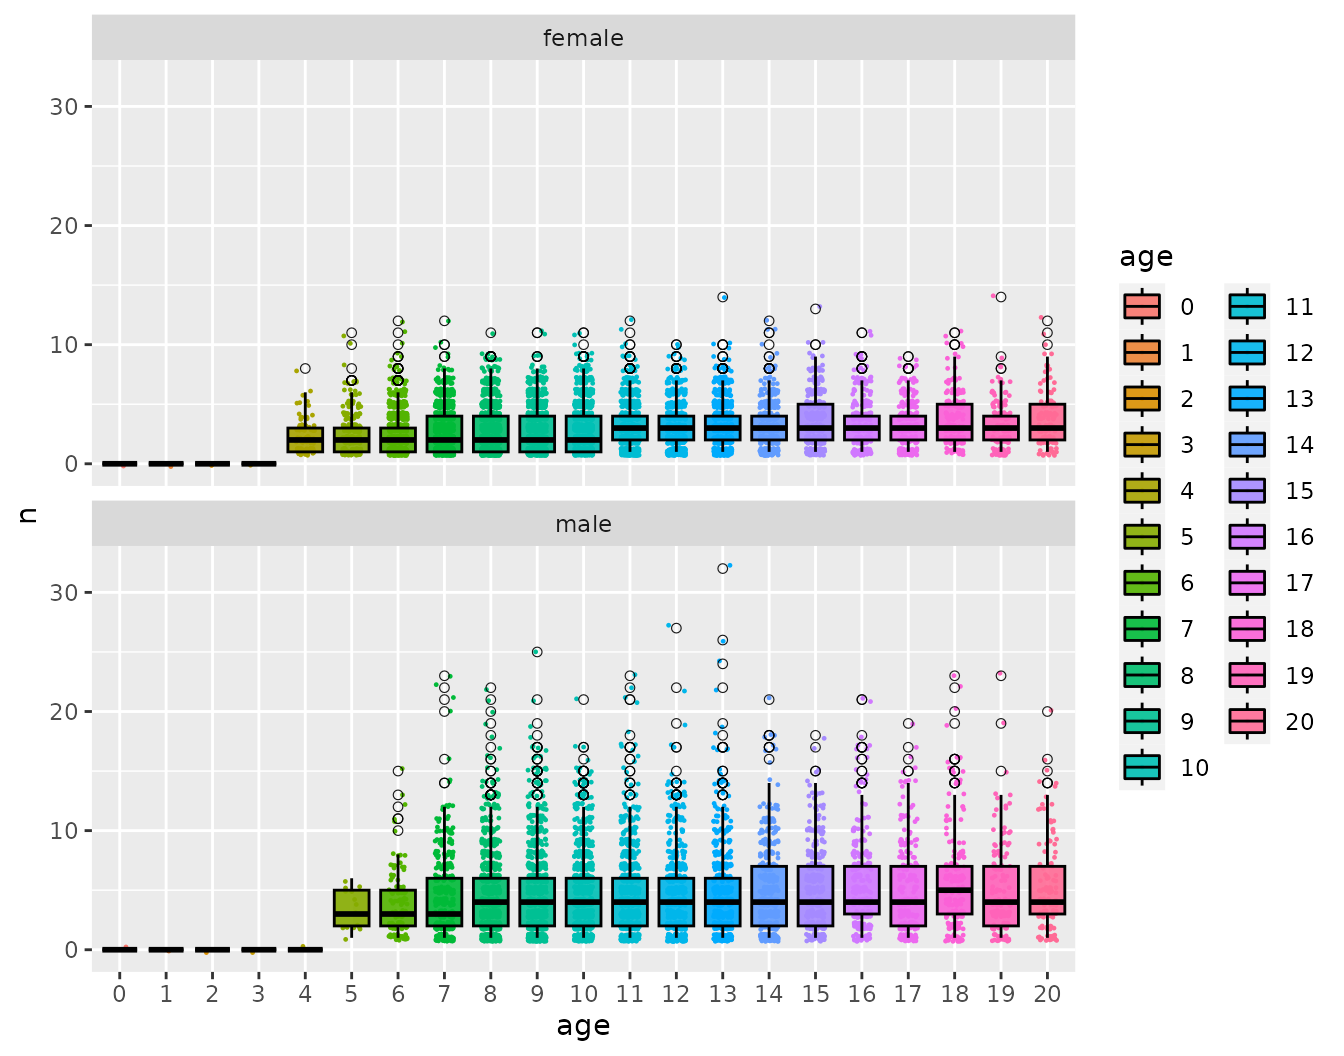
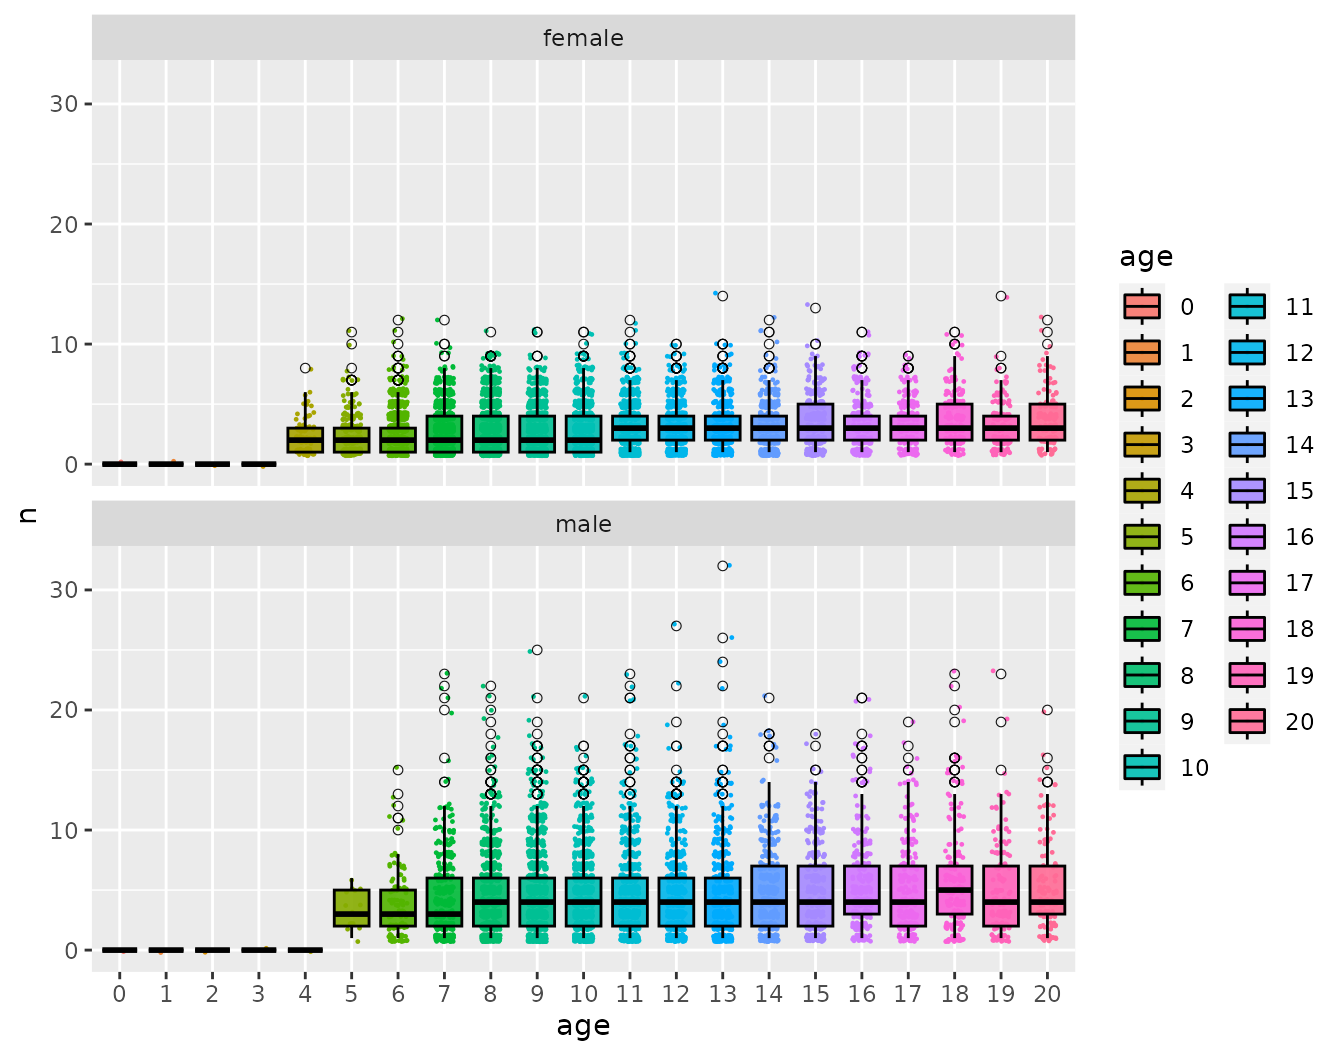
Deploying to gh-pages from @ eriqande/CKMRpop@c97fd8de1903bfc67034d4aba7c3ec18305de2e6 🚀

diff --git a/reference/downsample_pairs.html b/reference/downsample_pairs.html
@@ -108,13 +108,6 @@ include individuals that were not retained in the sample.</p></li>
 <span class="r-in"><span><span class="va">S</span> <span class="op">&lt;-</span> <span class="va">three_pops_with_mig_slurped_results</span><span class="op">$</span><span class="va">samples</span></span></span>
 <span class="r-in"><span><span class="va">P</span> <span class="op">&lt;-</span> <span class="fu"><a href="compile_related_pairs.html">compile_related_pairs</a></span><span class="op">(</span><span class="va">three_pops_with_mig_slurped_results</span><span class="op">$</span><span class="va">samples</span><span class="op">)</span></span></span>
 <span class="r-in"><span><span class="va">result</span> <span class="op">&lt;-</span> <span class="fu">downsample_pairs</span><span class="op">(</span><span class="va">S</span>, <span class="va">P</span>, n <span class="op">=</span> <span class="fl">500</span><span class="op">)</span></span></span>
-<span class="r-wrn co"><span class="r-pr">#&gt;</span> <span class="warning">Warning: </span>Returning more (or less) than 1 row per `summarise()` group was deprecated in</span>
-<span class="r-wrn co"><span class="r-pr">#&gt;</span> dplyr 1.1.0.</span>
-<span class="r-wrn co"><span class="r-pr">#&gt;</span> <span style="color: #00BBBB;">ℹ</span> Please use `reframe()` instead.</span>
-<span class="r-wrn co"><span class="r-pr">#&gt;</span> <span style="color: #00BBBB;">ℹ</span> When switching from `summarise()` to `reframe()`, remember that `reframe()`</span>
-<span class="r-wrn co"><span class="r-pr">#&gt;</span>   always returns an ungrouped data frame and adjust accordingly.</span>
-<span class="r-wrn co"><span class="r-pr">#&gt;</span> <span style="color: #00BBBB;">ℹ</span> The deprecated feature was likely used in the <span style="color: #0000BB;">CKMRpop</span> package.</span>
-<span class="r-wrn co"><span class="r-pr">#&gt;</span>   Please report the issue to the authors.</span>
 <span class="r-in"><span></span></span>
 <span class="r-in"><span><span class="co"># print the result</span></span></span>
 <span class="r-in"><span><span class="va">result</span></span></span>
@@ -122,8 +115,8 @@ include individuals that were not retained in the sample.</p></li>
 <span class="r-out co"><span class="r-pr">#&gt;</span> <span style="color: #949494;"># A tibble: 500 × 13</span></span>
 <span class="r-out co"><span class="r-pr">#&gt;</span>    ID      samp_…¹ sex   born_…² born_…³ pop_pre pop_p…⁴ pop_dur samp_…⁵ samp_…⁶</span>
 <span class="r-out co"><span class="r-pr">#&gt;</span>    <span style="color: #949494; font-style: italic;">&lt;chr&gt;</span>   <span style="color: #949494; font-style: italic;">&lt;list&gt;</span>  <span style="color: #949494; font-style: italic;">&lt;chr&gt;</span>   <span style="color: #949494; font-style: italic;">&lt;int&gt;</span>   <span style="color: #949494; font-style: italic;">&lt;int&gt;</span> <span style="color: #949494; font-style: italic;">&lt;chr&gt;</span>   <span style="color: #949494; font-style: italic;">&lt;chr&gt;</span>   <span style="color: #949494; font-style: italic;">&lt;chr&gt;</span>   <span style="color: #949494; font-style: italic;">&lt;list&gt;</span>  <span style="color: #949494; font-style: italic;">&lt;list&gt;</span> </span>
-<span class="r-out co"><span class="r-pr">#&gt;</span> <span style="color: #BCBCBC;"> 1</span> F10_0_… &lt;int&gt;   F          10       0 0       <span style="color: #BB0000;">NA</span>      <span style="color: #BB0000;">NA</span>      &lt;int&gt;   &lt;int&gt;  </span>
-<span class="r-out co"><span class="r-pr">#&gt;</span> <span style="color: #BCBCBC;"> 2</span> F10_0_… &lt;int&gt;   F          10       0 1       <span style="color: #BB0000;">NA</span>      <span style="color: #BB0000;">NA</span>      &lt;int&gt;   &lt;int&gt;  </span>
+<span class="r-out co"><span class="r-pr">#&gt;</span> <span style="color: #BCBCBC;"> 1</span> F10_0_… &lt;int&gt;   F          10       0 <span style="color: #BB0000;">NA</span>      0       <span style="color: #BB0000;">NA</span>      &lt;int&gt;   &lt;int&gt;  </span>
+<span class="r-out co"><span class="r-pr">#&gt;</span> <span style="color: #BCBCBC;"> 2</span> F10_0_… &lt;int&gt;   F          10       0 0       <span style="color: #BB0000;">NA</span>      <span style="color: #BB0000;">NA</span>      &lt;int&gt;   &lt;int&gt;  </span>
 <span class="r-out co"><span class="r-pr">#&gt;</span> <span style="color: #BCBCBC;"> 3</span> F10_0_… &lt;int&gt;   F          10       0 0       <span style="color: #BB0000;">NA</span>      <span style="color: #BB0000;">NA</span>      &lt;int&gt;   &lt;int&gt;  </span>
 <span class="r-out co"><span class="r-pr">#&gt;</span> <span style="color: #BCBCBC;"> 4</span> F10_0_… &lt;int&gt;   F          10       0 0       <span style="color: #BB0000;">NA</span>      <span style="color: #BB0000;">NA</span>      &lt;int&gt;   &lt;int&gt;  </span>
 <span class="r-out co"><span class="r-pr">#&gt;</span> <span style="color: #BCBCBC;"> 5</span> F10_0_… &lt;int&gt;   F          10       0 0       <span style="color: #BB0000;">NA</span>      <span style="color: #BB0000;">NA</span>      &lt;int&gt;   &lt;int&gt;  </span>
@@ -138,20 +131,20 @@ include individuals that were not retained in the sample.</p></li>
 <span class="r-out co"><span class="r-pr">#&gt;</span> <span style="color: #949494;">#   ⁶samp_years_list_dur</span></span>
 <span class="r-out co"><span class="r-pr">#&gt;</span> </span>
 <span class="r-out co"><span class="r-pr">#&gt;</span> $ds_pairs</span>
-<span class="r-out co"><span class="r-pr">#&gt;</span> <span style="color: #949494;"># A tibble: 170 × 33</span></span>
+<span class="r-out co"><span class="r-pr">#&gt;</span> <span style="color: #949494;"># A tibble: 167 × 33</span></span>
 <span class="r-out co"><span class="r-pr">#&gt;</span>    id_1   id_2  conn_…¹ dom_r…² max_hit dr_hits upper…³ times…⁴ prima…⁵ psa_tibs</span>
 <span class="r-out co"><span class="r-pr">#&gt;</span>    <span style="color: #949494; font-style: italic;">&lt;chr&gt;</span>  <span style="color: #949494; font-style: italic;">&lt;chr&gt;</span>   <span style="color: #949494; font-style: italic;">&lt;dbl&gt;</span> <span style="color: #949494; font-style: italic;">&lt;chr&gt;</span>     <span style="color: #949494; font-style: italic;">&lt;int&gt;</span> <span style="color: #949494; font-style: italic;">&lt;list&gt;</span>    <span style="color: #949494; font-style: italic;">&lt;int&gt;</span>   <span style="color: #949494; font-style: italic;">&lt;int&gt;</span> <span style="color: #949494; font-style: italic;">&lt;list&gt;</span>  <span style="color: #949494; font-style: italic;">&lt;list&gt;</span>  </span>
-<span class="r-out co"><span class="r-pr">#&gt;</span> <span style="color: #BCBCBC;"> 1</span> F10_0… M10_…       1 Si            1 &lt;int&gt;        <span style="color: #BB0000;">NA</span>       2 &lt;list&gt;  &lt;tibble&gt;</span>
-<span class="r-out co"><span class="r-pr">#&gt;</span> <span style="color: #BCBCBC;"> 2</span> F10_0… F11_…       2 Si            1 &lt;int&gt;        <span style="color: #BB0000;">NA</span>       3 &lt;list&gt;  &lt;tibble&gt;</span>
-<span class="r-out co"><span class="r-pr">#&gt;</span> <span style="color: #BCBCBC;"> 3</span> F10_0… F11_…       2 Si            1 &lt;int&gt;        <span style="color: #BB0000;">NA</span>       3 &lt;list&gt;  &lt;tibble&gt;</span>
+<span class="r-out co"><span class="r-pr">#&gt;</span> <span style="color: #BCBCBC;"> 1</span> F10_0… M10_…       1 Si            1 &lt;int&gt;        <span style="color: #BB0000;">NA</span>       3 &lt;list&gt;  &lt;tibble&gt;</span>
+<span class="r-out co"><span class="r-pr">#&gt;</span> <span style="color: #BCBCBC;"> 2</span> F10_0… F9_0…       2 Si            1 &lt;int&gt;        <span style="color: #BB0000;">NA</span>       2 &lt;list&gt;  &lt;tibble&gt;</span>
+<span class="r-out co"><span class="r-pr">#&gt;</span> <span style="color: #BCBCBC;"> 3</span> F10_0… F10_…       3 Si            1 &lt;int&gt;        <span style="color: #BB0000;">NA</span>       4 &lt;list&gt;  &lt;tibble&gt;</span>
 <span class="r-out co"><span class="r-pr">#&gt;</span> <span style="color: #BCBCBC;"> 4</span> F10_0… F10_…       3 Si            1 &lt;int&gt;        <span style="color: #BB0000;">NA</span>       4 &lt;list&gt;  &lt;tibble&gt;</span>
 <span class="r-out co"><span class="r-pr">#&gt;</span> <span style="color: #BCBCBC;"> 5</span> F10_0… M9_0…       3 Si            1 &lt;int&gt;        <span style="color: #BB0000;">NA</span>       4 &lt;list&gt;  &lt;tibble&gt;</span>
-<span class="r-out co"><span class="r-pr">#&gt;</span> <span style="color: #BCBCBC;"> 6</span> F10_0… M9_0…       3 Si            1 &lt;int&gt;        <span style="color: #BB0000;">NA</span>       4 &lt;list&gt;  &lt;tibble&gt;</span>
-<span class="r-out co"><span class="r-pr">#&gt;</span> <span style="color: #BCBCBC;"> 7</span> F10_0… F14_…       4 PO            1 &lt;int&gt;         1       2 &lt;list&gt;  &lt;tibble&gt;</span>
-<span class="r-out co"><span class="r-pr">#&gt;</span> <span style="color: #BCBCBC;"> 8</span> F10_1… M9_1…       5 Si            1 &lt;int&gt;        <span style="color: #BB0000;">NA</span>       3 &lt;list&gt;  &lt;tibble&gt;</span>
-<span class="r-out co"><span class="r-pr">#&gt;</span> <span style="color: #BCBCBC;"> 9</span> F10_1… F13_…       6 PO            1 &lt;int&gt;         1       2 &lt;list&gt;  &lt;tibble&gt;</span>
-<span class="r-out co"><span class="r-pr">#&gt;</span> <span style="color: #BCBCBC;">10</span> F10_1… F11_…       7 Si            1 &lt;int&gt;        <span style="color: #BB0000;">NA</span>       2 &lt;list&gt;  &lt;tibble&gt;</span>
-<span class="r-out co"><span class="r-pr">#&gt;</span> <span style="color: #949494;"># … with 160 more rows, 23 more variables: pop_pre_1 &lt;chr&gt;, pop_post_1 &lt;chr&gt;,</span></span>
+<span class="r-out co"><span class="r-pr">#&gt;</span> <span style="color: #BCBCBC;"> 6</span> F10_0… F10_…       3 Si            1 &lt;int&gt;        <span style="color: #BB0000;">NA</span>       4 &lt;list&gt;  &lt;tibble&gt;</span>
+<span class="r-out co"><span class="r-pr">#&gt;</span> <span style="color: #BCBCBC;"> 7</span> F10_0… M9_0…       3 Si            1 &lt;int&gt;        <span style="color: #BB0000;">NA</span>       4 &lt;list&gt;  &lt;tibble&gt;</span>
+<span class="r-out co"><span class="r-pr">#&gt;</span> <span style="color: #BCBCBC;"> 8</span> F10_0… M9_0…       3 Si            1 &lt;int&gt;        <span style="color: #BB0000;">NA</span>       4 &lt;list&gt;  &lt;tibble&gt;</span>
+<span class="r-out co"><span class="r-pr">#&gt;</span> <span style="color: #BCBCBC;"> 9</span> F10_0… F14_…       4 PO            1 &lt;int&gt;         1       2 &lt;list&gt;  &lt;tibble&gt;</span>
+<span class="r-out co"><span class="r-pr">#&gt;</span> <span style="color: #BCBCBC;">10</span> F10_0… M10_…       4 Si            1 &lt;int&gt;        <span style="color: #BB0000;">NA</span>       2 &lt;list&gt;  &lt;tibble&gt;</span>
+<span class="r-out co"><span class="r-pr">#&gt;</span> <span style="color: #949494;"># … with 157 more rows, 23 more variables: pop_pre_1 &lt;chr&gt;, pop_post_1 &lt;chr&gt;,</span></span>
 <span class="r-out co"><span class="r-pr">#&gt;</span> <span style="color: #949494;">#   pop_dur_1 &lt;chr&gt;, pop_pre_2 &lt;chr&gt;, pop_post_2 &lt;chr&gt;, pop_dur_2 &lt;chr&gt;,</span></span>
 <span class="r-out co"><span class="r-pr">#&gt;</span> <span style="color: #949494;">#   sex_1 &lt;chr&gt;, sex_2 &lt;chr&gt;, born_year_1 &lt;int&gt;, born_year_2 &lt;int&gt;,</span></span>
 <span class="r-out co"><span class="r-pr">#&gt;</span> <span style="color: #949494;">#   samp_years_list_pre_1 &lt;list&gt;, samp_years_list_1 &lt;list&gt;,</span></span>

diff --git a/articles/species_1_simulation.html b/articles/species_1_simulation.html
@@ -266,9 +266,9 @@ functions in CKMRpop that make this quick and easy to do.</p>
 check to see what the population demographics look like:</p>
 <div class="sourceCode" id="cb9"><pre class="downlit sourceCode r">
 <code class="sourceCode R"><span><span class="fu"><a href="../reference/ggplot_census_by_year_age_sex.html">ggplot_census_by_year_age_sex</a></span><span class="op">(</span><span class="va">slurped</span><span class="op">$</span><span class="va">census_postkill</span><span class="op">)</span></span></code></pre></div>
-<p><img src="species_1_simulation_files/figure-html/unnamed-chunk-8-1.png" width="672">
-This shows that the function <code><a href="../reference/leslie_from_spip.html">leslie_from_spip()</a></code> does a good
-job of finding the initial population numbers that accord with the
+<p><img src="species_1_simulation_files/figure-html/unnamed-chunk-8-1.png" width="672"></p>
+<p>This shows that the function <code><a href="../reference/leslie_from_spip.html">leslie_from_spip()</a></code> does a
+good job of finding the initial population numbers that accord with the
 stable age distribution.</p>
 </div>
 <div class="section level3">
@@ -570,8 +570,8 @@ also returned. For example, the ancestry match matrices seen amongst the
 FC relationships are:</p>
 <div class="sourceCode" id="cb26"><pre class="downlit sourceCode r">
 <code class="sourceCode R"><span><span class="va">relat_counts</span><span class="op">$</span><span class="va">dr_plots</span><span class="op">$</span><span class="va">FC</span></span></code></pre></div>
-<p><img src="species_1_simulation_files/figure-html/unnamed-chunk-25-1.png" width="672">
-Within each dominant relationship, the distinct ancestry matrices in
+<p><img src="species_1_simulation_files/figure-html/unnamed-chunk-25-1.png" width="672"></p>
+<p>Within each dominant relationship, the distinct ancestry matrices in
 each separate panel are named according to their number
 (<code>001</code>, <code>002</code>, <code>003</code>, etc),
 relationship and the <code>dr_hits</code> vector, (<code>FC[1,2]</code>)
@@ -588,10 +588,10 @@ individual.</p>
 siblings:</p>
 <div class="sourceCode" id="cb27"><pre class="downlit sourceCode r">
 <code class="sourceCode R"><span><span class="va">relat_counts</span><span class="op">$</span><span class="va">dr_plots</span><span class="op">$</span><span class="va">Si</span></span></code></pre></div>
-<p><img src="species_1_simulation_files/figure-html/unnamed-chunk-26-1.png" width="672">
-Here in <code>004</code>–<code>008</code> we see some interesting case
-where ind_1 and ind_2 are half siblings, through one parent, but are
-also half-first cousins through the other..</p>
+<p><img src="species_1_simulation_files/figure-html/unnamed-chunk-26-1.png" width="672"></p>
+<p>Here in <code>004</code>–<code>008</code> we see some interesting
+case where ind_1 and ind_2 are half siblings, through one parent, but
+are also half-first cousins through the other..</p>
 </div>
 <div class="section level3">
 <h3 id="tallying-all-the-ancestry-match-matrices">Tallying all the ancestry match matrices<a class="anchor" aria-label="anchor" href="#tallying-all-the-ancestry-match-matrices"></a>
@@ -702,7 +702,7 @@ them were sampled in two different years). We do like so:</p>
 <span>  P <span class="op">=</span> <span class="va">crel</span>,</span>
 <span>  n <span class="op">=</span> <span class="fl">100</span></span>
 <span><span class="op">)</span></span></code></pre></div>
-<p>Now there are only 206 pairs instead of 3035.</p>
+<p>Now there are only 218 pairs instead of 3035.</p>
 <p>We can do a little calculation to see if that makes sense: because
 the number of pairs varies roughly quadratically, we would expect that
 the number of pairs to decrease by a quadratic factor of the number of
@@ -728,7 +728,7 @@ samples:</p>
 <span></span>
 <span><span class="co"># compare these two things</span></span>
 <span><span class="fu"><a href="https://rdrr.io/r/base/c.html" class="external-link">c</a></span><span class="op">(</span><span class="va">sq_rat</span>, <span class="va">ratio</span><span class="op">)</span></span>
-<span><span class="co">#&gt; [1] 0.06711590 0.06787479</span></span></code></pre></div>
+<span><span class="co">#&gt; [1] 0.06711590 0.07182867</span></span></code></pre></div>
 <p>That checks out.</p>
 </div>
 <div class="section level2">

diff --git a/reference/gg_add_generation_bands.html b/reference/gg_add_generation_bands.html
@@ -97,7 +97,8 @@ is just rainbow order starting from red.</p></dd>
 <dt>add_impossibles</dt>
 <dd><p>pass TRUE if you want to blot out the cells that are not possible
 because they conflict with the sex of the individuals.  You set the fill of the
-impossibles with a <code>scale_fill_manual()</code> in the main ggplot call.  i.e.,</p><div class="sourceCode"><pre><code><span><span class="fu">scale_fill_manual</span><span class="op">(</span>values <span class="op">=</span> <span class="fu"><a href="https://rdrr.io/r/base/c.html" class="external-link">c</a></span><span class="op">(</span>`FALSE` <span class="op">=</span> <span class="cn">NA</span>, Impossible <span class="op">=</span> <span class="st">"white"</span>, `TRUE` <span class="op">=</span> <span class="st">"black"</span><span class="op">)</span><span class="op">)</span></span></code></pre></div></dd>
+impossibles with a <code>scale_fill_manual()</code> in the main ggplot call.  i.e.,</p>
+<p></p><div class="sourceCode"><pre><code><span id="cb1-1"><a href="#cb1-1" aria-hidden="true" tabindex="-1"></a><span class="fu">scale_fill_manual</span>(<span class="at">values =</span> <span class="fu">c</span>(<span class="st">`</span><span class="at">FALSE</span><span class="st">`</span> <span class="ot">=</span> <span class="cn">NA</span>, <span class="at">Impossible =</span> <span class="st">"white"</span>, <span class="st">`</span><span class="at">TRUE</span><span class="st">`</span> <span class="ot">=</span> <span class="st">"black"</span>))</span></code></pre><p></p></div></dd>
 
 </dl></div>
 

diff --git a/news/index.html b/news/index.html
@@ -65,6 +65,7 @@
 <ul><li>Fixed an error that occurs when no pairs are present, by returning a tibble with the columns expected from <code><a href="../reference/compile_related_pairs.html">compile_related_pairs()</a></code> but 0 rows. Made the same fix in <code><a href="../reference/downsample_pairs.html">downsample_pairs()</a></code>. Thanks to Martin Sköld for filing GitHub issue #2 about this.</li>
 <li>Removed tidyverse from the Suggests.</li>
 <li>Added GitHub Actions for checking and pkgdown</li>
+<li>Fixed color problems in plots occurring from ggplot2 updates</li>
 </ul></div>
     <div class="section level2">
 <h2 class="page-header" data-toc-text="0.1.3" id="ckmrpop-013">CKMRpop 0.1.3<small>2021-07-17</small><a class="anchor" aria-label="anchor" href="#ckmrpop-013"></a></h2>
